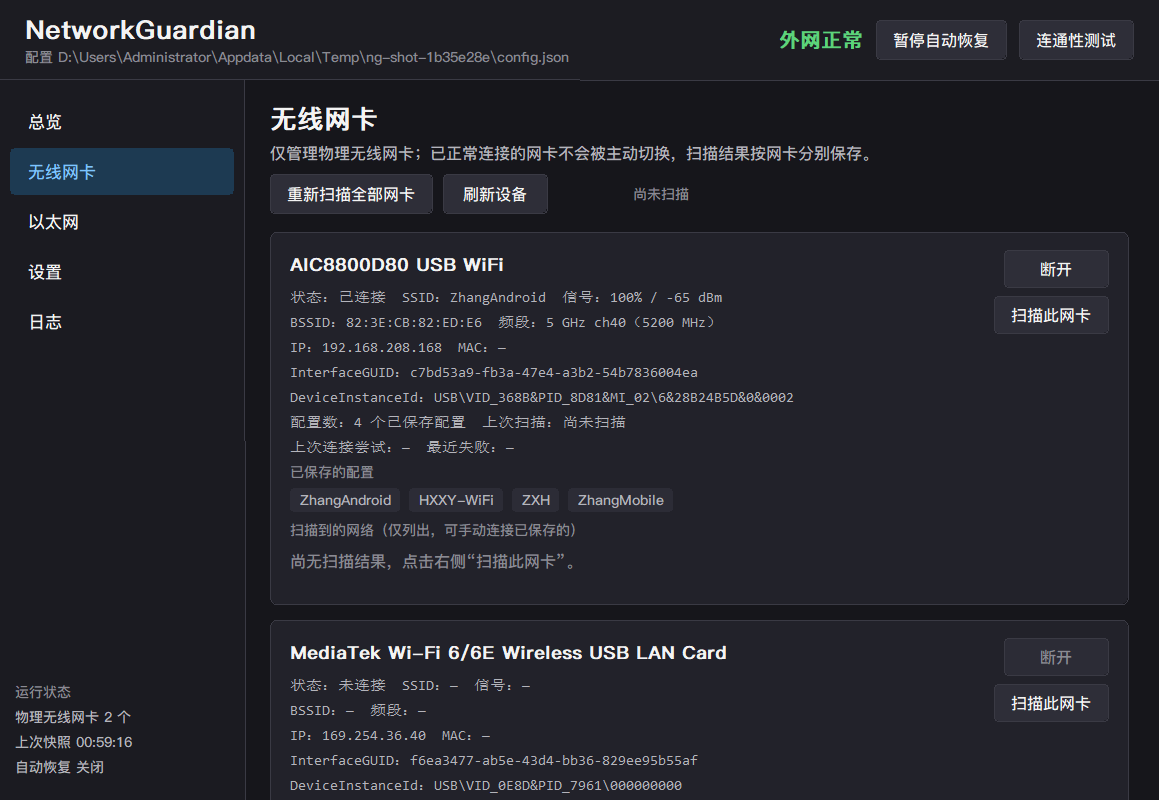
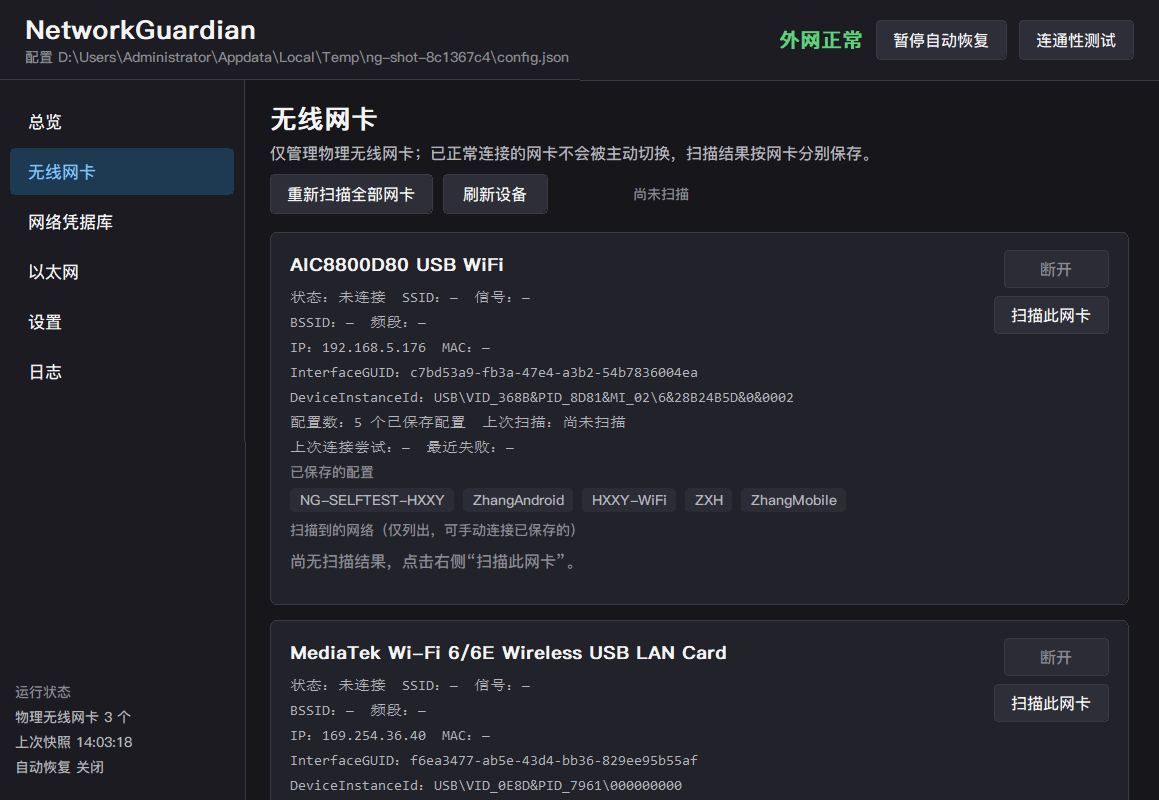
docs: document the 802.1X credential library, the watchdog and the size gate
* docs/eap-credential-library.md: the feature reference - requirement to implementation to
  evidence mapping, the credential store (DPAPI, copy semantics, what invalidates an applied
  fingerprint), the two documents Windows needs (profile XML + EAP user credentials) with the
  namespaces and element order that the shipped XSDs require, the measured accept/reject matrix
  including the reason codes (524289 credentials in a profile, 0x80420019 malformed user data,
  1206 for WPA3-Enterprise and one EAP-TLS ordering mistake), when the profile is rewritten,
  the retry/abandon flow, why the radio watchdog is its own loop, the hardware evidence, the
  size accounting and the unverified edges.
* docs/session-log-2026-09-18-8021x.md: session record - deliverables, decisions, hardware
  evidence, size table, reproduction commands, the QA-tool DPI defect.
* README.md: new sections 7.1 (self-maintained wireless network library) and 7.2 (per-adapter
  software switch and watchdog), feature rows, the credentials page, the new QA scripts, the
  updated test count (256) and size (8.24 MB / gate 8.5 MB), honest limits (WPA3-Enterprise,
  EAP-TTLS, EAP-TLS with a real client certificate, cross-machine library copies) and the
  machine-verified results.
* docs/README.md: index entries plus the refreshed verification-script table.
* docs/ui-credentials.png (new) and docs/ui-wireless.png (refreshed, now marks each enterprise
  network with 库中有账号 / 库中无账号 / 本次运行已临时放弃).

diff --git a/docs/eap-credential-library.md b/docs/eap-credential-library.md
@@ -1,0 +1,155 @@
+# 自维护无线网络库（802.1X / EAP）
+
+本文记录「程序自己维护一张无线网络账号表、并在连接企业级 Wi-Fi 时使用它」这一功能的实现依据、
+真机判定结果与已验证边界。配套代码：`src/NetworkGuardian.Core/Wlan`、`src/NetworkGuardian.Infrastructure/Configuration/WifiNetworkVault.cs`、
+`src/NetworkGuardian.Windows/Wlan/WifiProfileApplier.cs`、`src/NetworkGuardian.Portable/Ui/Pages/CredentialsPage.cs`。
+
+## 1. 需求 → 实现 → 证据
+
+| 需求 | 实现 | 证据 |
+| --- | --- | --- |
+| 支持 EAP 网络，账号密码由程序自己维护 | `WifiNetworkCredential` + `WifiNetworkVault`（`wifi-networks.json`）+ 「网络凭据库」页面 | `WifiNetworkVaultTests`（磁盘上无明文、DPAPI 往返、损坏恢复）；真机 `WifiEapConnectHardwareTests` |
+| 独立于系统的无线网络库 | 库里保存权威账号；系统侧只是「生成物」——连接前由 `WifiProfileApplier` 写入，库中没有的 SSID 绝不去猜 | `EapConnectFlowTests`（库中无账号 → 拒绝连接并说明原因）、§3 的复用/重写规则 |
+| 启用无线功能后保证所有网卡软开关打开 | 「无线电看门狗」独立循环，默认每 3 秒读全部网卡的软开关并立即打开 | 真机 `tools/qa-radio-watchdog.ps1`：2.29 s / 2.30 s，日志有看门狗行 |
+| 在已保存网络中继续连接处理 | 沿用原有的「只连接已保存配置」流程，EAP 候选在库中有账号时照常参与择优 | `CandidateSelectorTests`、`EapConnectFlowTests` |
+| 遇到 EAP 认证就用库中的信息 | 连接前按库中参数写配置 + 写 EAP 用户凭据，Windows 不再提示 | 真机写入 `success=True profileWritten=True userDataWritten=True` |
+| 失败重试 5 次 | `EapConnectRetryPolicy`，上限 `wifi.eapConnectMaxAttempts`（默认 5），按「网卡 + SSID」计数 | `EapConnectFlowTests`；真机 5 次真实失败后 `Failures=5` |
+| 5 次失败后对该网卡临时放弃（下次启动继续尝试） | 计数只在内存；达到上限后该网卡上该 SSID 不再被选中，日志与界面写明「本次运行已临时放弃」 | `EapConnectFlowTests`；库中修改该网络会立刻清零（真机 `ClearEapRetries` 返回 1） |
+
+## 2. 数据与存储
+
+`wifi-networks.json`（`%LOCALAPPDATA%\NetworkGuardian\`，可用 `NETWORKGUARDIAN_CONFIG_ROOT` 重定向）：
+原子写入 + `.bak` + 解析失败时隔离为 `.invalid.json`（与 `config.json` 同一套存储语义）。
+
+| 字段 | 含义 |
+| --- | --- |
+| `ssid` / `profileName` | 目标网络；`profileName` 留空表示用 SSID 作系统配置名（多个适配器用同一份配置是正常的） |
+| `auth` | `Wpa2Enterprise`(AES) / `WpaEnterprise`(TKIP) / `Wpa3Enterprise`（见 §3 的实测结论） |
+| `eap` | `PeapMschapv2` / `Tls` / `CustomXml` |
+| `identity` / `anonymousIdentity` / `domain` | MSCHAPv2 身份（`domain\user` 或 `user@realm`）；PEAP 外层可匿名 |
+| `passwordProtected` | DPAPI 密文（Base64）。**`password` 字段带 `[JsonIgnore]`，永不序列化** |
+| `serverNames` / `trustedRootCaThumbprints` | 服务器名校验与根证书固定（SHA-1 40 位十六进制，空格/分号都可） |
+| `certificateThumbprint` | EAP-TLS 客户端证书固定（写进 EAP 用户凭据的 `UserCert`） |
+| `profileXmlOverride` | 生成器覆盖不到的场景（EAP-TTLS、厂商方案、证书选择、MAC 随机化）原样写入 |
+| `appliedFingerprint` / `lastAppliedUtc` | 记录「这份配置是我们按当前条目写进去的」，用于判断是否需要重写 |
+
+`WifiNetworkVault` 有三条硬规则（单元测试锁定）：
+
+1. **没有保护器就拒绝保存密码**（`InvalidOperationException`），绝不明文落盘；
+2. `Entries` / `Find` 返回**副本**：界面与宿主改的都是副本，保存时按字段签名比对，才能发现「密码被改了」（早期版本返回活对象，改动在比较前就已生效，导致改密码后不重写配置——`WifiNetworkVaultTests` 专门覆盖）；
+3. 任何字段（含密码）变化都会清掉 `appliedFingerprint` → 下次连接重写配置与凭据；只有 `appliedFingerprint`/`lastAppliedUtc` 变化不清除。
+
+## 3. 生成的两份文档，以及真机接受/拒绝矩阵
+
+Windows 把 802.1X 拆成两份文档，凭据**不在**配置 XML 里：
+
+1. **连接配置**（`WlanSetProfile`，逐用户配置）：`<name>`/`<SSIDConfig>`/`<connectionType>` + MSM（`authentication`、`encryption`、`useOneX=true`）+ `<OneX><authMode>user</authMode><EAPConfig>…`；
+2. **EAP 用户凭据**（`WlanSetProfileEapXmlUserData`）：`EapHostUserCredentials` → `EapMethod`（EAP 类型 25/13）+ `Credentials` → `Eap`（`BaseEapUserPropertiesV1`，先 `<Type>`）→ 具体方法的 `EapType`（`MsChapV2UserPropertiesV1` 的 `Username`/`Password`/`LogonDomain`，或 `EapTlsUserPropertiesV1` 的 `UserCert`）。
+
+判定依据不是猜的，而是本机资源：**`C:\Windows\schemas\EAPHost\*.xsd` 与 `C:\Windows\schemas\EAPMethods\*.xsd`**，
+以及把本机已存在且能工作的企业级配置原样导出来对照（`tools/dump-wlan-profile.ps1`）。
+
+| 形态 | 结果 |
+| --- | --- |
+| PEAP + MSCHAPv2，WPA2-Enterprise（AES） | **接受**（`WlanSetProfile` + EAP 用户凭据均成功，读回 `WPA2` / EAP 类型 25） |
+| PEAP + MSCHAPv2，WPA-Enterprise（TKIP） | **接受** |
+| 隐藏网络（`nonBroadcast=true`，手动连接） | **接受** |
+| EAP-TLS（`CredentialsSource` + `ServerValidation`） | **接受**；用户凭据（`UserCert` 固定证书）**接受** |
+| 凭据写进配置 XML（`UserName`/`Password` 或 `EAPConfig` 内的用户字段） | **拒绝**：`WlanSetProfile` 原因码 524289（schema 不合法）——凭据必须走 EAP 用户数据 |
+| WPA3-Enterprise：`WPA3`/`WPA3ENT`/`WPA3ENT192` × `AES`/`GCMP256`/`GCMP`，三种网卡（AIC8800D80 / MT7961 / Intel AX201） | **全部拒绝**：原因码 1206。因此生成器**拒绝**自动生成 WPA3-Enterprise，明确要求填自定义 XML（不猜测、不静默产出无效配置） |
+| EAP 用户数据里 `<Type>` 放在 `EapMethod` 之前 / 命名空间用前缀 / `Credentials` 里的 `Eap` 不带命名空间 | **拒绝**：`EAP_E_EAPHOST_XML_MALFORMED`（0x80420019） |
+| EAP-TLS 把 `ServerValidation` 放在 `CredentialsSource` 之前 | **拒绝**：原因码 1206（XSD 要求 `CredentialsSource` 在前） |
+
+## 4. 什么时候会写系统配置
+
+`WifiProfileInspector.Evaluate` 返回四种判定：`Missing`（没有该配置）/ `NotEnterprise`（有但不是 802.1X）/
+`LibraryChanged`（`appliedFingerprint` 缺失或与当前条目生成的指纹不同）/ `UpToDate`。
+只有 `UpToDate` 才跳过写入，因此：手动改过系统配置、或换了一张网卡，都会按库中参数重写一次。
+指纹是自写的 128 位 FNV-1a（带 `ng1-` 前缀），只用于「是不是同一份文档」这一判断——不需要密码学强度。
+注意：实测把它从 `SHA256.HashData` 换过来**并没有减小体积**（前后都是 8.24 MB），保留它的理由是不给
+变更检测引入密码学依赖，而不是省体积。
+
+## 5. 连接与重试
+
+1. 决策引擎每轮拿到 `WifiEapCatalog`（库里启用的 SSID 集合）；
+2. 企业级网络若不在库中 → 不产生连接动作，日志/界面写明原因（`[802.1X]` 前缀的拒绝理由**不受** `verboseNetwork` 开关限制，因为它就是要给人看的）；若该「网卡 + SSID」已被放弃 → 同样不出现在候选里；
+3. 连接前 `EnsureLibraryProfileAsync`：查库 → 写配置 + 写凭据 → 记录 `appliedFingerprint`；
+4. `WlanConnect` 失败时按 `requiredEap` 记入 `EapConnectRetryPolicy`；达到上限（5）后标记放弃并写一条恢复动作记录（日志/界面可见）；
+5. 放弃只影响本次运行；库中修改该网络、或用户在托盘点「清除失败记录与冷却」都会清零。
+
+失败既包含「连接尝试本身失败」，也包含「配置/凭据准备失败」（此时不会真的发起连接，但同样计数，避免每轮空转重写）。
+
+## 6. 软开关看门狗
+
+- 每块网卡的软开关通过 **Windows 无线电管理器**读取与写入；`wlanapi` 的 `radio_state` 在本机三块网卡上写操作都返回 87，只能读；
+- 看门狗是**独立循环**（默认 3 秒），不依赖监测循环的巡检周期；
+- 它**不受**决策引擎的无线电动作限流（`12 次/小时`、最小间隔 `30 秒`）约束——真机验证时第 1 轮 0.26 s 由「无线电状态变化通知 + 引擎动作」完成，第 2、3 轮（限流已生效）仍能在 2.3 s 内恢复，正是看门狗的贡献；
+- 硬件开关关闭、或系统策略禁止写入时如实报告失败，不反复重试；
+- 用户「暂停自动恢复」期间看门狗不干预网卡（与其他自动动作保持一致），日志在 debug 级别说明。
+
+## 7. 真机证据
+
+环境：Windows 11 22631，三块 USB/PCIe 无线网卡；企业级网络 `HXXY-WiFi`（WPA2-Enterprise，PEAP/MSCHAPv2）。
+
+```
+# 1. 按库中参数写入配置与账号（xUnit 真机用例）
+$env:NETWORKGUARDIAN_WIFI_HARDWARE_TESTS=1
+dotnet test tests\NetworkGuardian.Tests\NetworkGuardian.Tests.csproj -c Debug `
+  --filter 'FullyQualifiedName~WifiProfileHardwareTests' --logger 'console;verbosity=detailed'
+#   → peap-mschapv2 / peap-mschapv2-wpa-tkip / peap-hidden-manual / eap-tls / eap-tls-pinned-cert
+#     全部 apply success=True，第二次 apply「无需更新」，改条目后判定为 LibraryChanged，测试配置已删除
+
+# 2. 真实 802.1X 失败计数（错误密码，连接真实 AP）
+dotnet test ... --filter 'FullyQualifiedName~WifiEapConnectHardwareTests'
+#   → apply success=True profileWritten=True userDataWritten=True
+#   → attempt 1..5 全部 success=False（每次 18 s 超时）
+#   → after 5 failures: abandoned=True
+#   → cleanup: deleteSuccess=True removed=True；user profile intact: True
+#   → 磁盘上 grep 不到密码明文
+
+# 3. 软开关看门狗
+pwsh -NoProfile -File tools\qa-radio-watchdog.ps1 -RadioIndex 2 -Rounds 3
+#   → round 1 restored after 0.26s（通知路径）
+#   → round 2 restored after 2.29s，日志：无线电看门狗：已把软件关闭的无线网卡重新打开
+#   → round 3 restored after 2.30s，同上
+```
+
+真机用例做过三件防误伤的事：生成的配置用独立名字（`NG-SELFTEST-HXXY`）且不自动连接、账号用假身份
+（`selftest@example.invalid`，不会锁真实校园账号）、结束前删除配置并断言用户自己的同名配置仍在。
+
+## 8. 体积影响（Native AOT，同一工具链实测）
+
+| 提交 | 内容 | exe |
+| --- | --- | --- |
+| `289ca18` | 本功能之前 | 7.87 MB |
+| `a8e6ce0` | 库模型 / 配置 / 配置 XML 与 EAP 用户数据生成器（未接线） | 7.98 MB |
+| `06cc66d` | Windows 写入层 + 库存储 + DPAPI（仍未接线，被裁剪） | 7.98 MB |
+| `d296834` | 接线：库装载、连接前写配置、失败计数、网络凭据库页面 | 8.24 MB |
+
+把「网络凭据库」页面从页面列表里去掉再发布，只省 0.03 MB——**增长来自功能代码本身，不是界面**。
+因此 `tools/build-portable.ps1` 的体积门限由 8 MB 调整为 **8.5 MB**（理由与逐步实测写在脚本头部）。
+`OptimizationPreference=Size`、`StripSymbols`、`UseSystemResourceKeys`、`InvariantGlobalization` 早已开启。
+
+## 9. 开发中暴露的问题与根因
+
+1. **密码不能写在配置 XML 里**：凭据放 `EAPConfig` 会被 `WlanSetProfile` 以原因码 524289 拒绝；必须用
+   `WlanSetProfileEapXmlUserData` 单独写。
+2. **EAP 用户数据 XML 无文档可循**：6 种手写形态全被 `0x80420019` 拒。正解是系统自带的 XSD
+   （`C:\Windows\schemas\…`）：`EapMethod` 的类型元素在 `EapCommon` 命名空间、`Credentials` 里的 `Eap`
+   在 `BaseEapUserPropertiesV1` 命名空间且**先 `<Type>` 再具体方法元素**、`Username` 大小写敏感。
+3. **EAP-TLS 元素顺序**：`CredentialsSource` 必须在 `ServerValidation` 之前，否则原因码 1206。
+4. **WPA3-Enterprise 在本机不可用**：三种取值 × 三种网卡全部 1206；不猜、不硬编码，改为要求自定义 XML。
+5. **`WlanSetInterface(radio_state)` 写不了**：三块网卡都返回 87，写入只能走无线电管理器（前一轮已验证）。
+6. **库返回活对象导致「改密码不重写」**：`SaveAsync` 比较签名时改动已生效；改为返回副本。
+7. **引擎的无线电限流让「通知路径」不可靠**：`12 次/小时` + `30 秒`最小间隔，短时间内第二次关掉软开关时
+   引擎不会再动手——这正是需要独立看门狗循环的原因（真机第 2/3 轮验证）。
+8. **占位性假设被证伪**：早期版本假设能用 `WlanGetProfileEapUserDataInfo` + `WLAN_PROFILE_USER`
+   读回已存凭据大小，对照 `wlanapi.h` 后确认假设错误，相关代码已删除（不保留「看起来能工作」的死代码）。
+
+## 10. 未验证边界
+
+- WPA3-Enterprise（本机 WLAN 服务拒绝；需支持该模式的网卡/驱动）；
+- EAP-TTLS、PEAP-TLS 等第三方 EAP 方法（需系统安装对应 EAP 方法，只能填自定义 XML）；
+- EAP-TLS 携带**真实客户端证书**完成认证（本机无可用证书，只验证了配置与凭据被接受）；
+- `wifi-networks.json` 跨用户/跨机器复制（DPAPI 作用域所限，程序会提示重新填写，不静默失败）；
+- 多张网卡同时连同一个企业级 SSID（`wifi.allowSameSsidOnMultipleAdapters=false` 的默认行为沿用原逻辑）。

diff --git a/docs/session-log-2026-09-18-8021x.md b/docs/session-log-2026-09-18-8021x.md
@@ -1,0 +1,104 @@
+# 会话记录：自维护无线网络库（802.1X / EAP）+ 软开关看门狗
+
+日期：2026-09-18　仓库：`D:\Files\Develop\Windows\NetworkGuardian`（提交 `a8e6ce0` → `d296834` 及后续文档提交）
+
+需求原文要点：
+
+1. 对 EAP 网络支持自己维护账号密码，建立一个**软件自维护、独立于系统**的无线网络库；
+2. 启用无线功能后，保证**所有无线网卡的软开关被打开，间隔 3 秒检查一次并立即打开**；
+3. 然后在已保存网络中继续连接处理，遇到 EAP 认证就用自维护库里的信息；失败**重试 5 次**，
+   5 次失败后对该网卡**临时放弃**该网络（下次启动依旧继续尝试）。
+
+## 1. 交付物
+
+| 类别 | 文件 |
+| --- | --- |
+| Core（纯逻辑） | `Models/WifiCredentialModels.cs`、`Models/WifiEapCatalog.cs`、`Wlan/EnterpriseProfileBuilder.cs`（配置 XML + EAP 用户凭据）、`Wlan/WifiProfileInspector.cs`（是否需重写）、`Policies/EapConnectRetryPolicy.cs`、`Abstractions/SecretProtectionContracts.cs` |
+| Infrastructure | `Configuration/WifiNetworkVault.cs`（库文件：DPAPI、原子写、副本语义） |
+| Windows | `Security/DpapiSecretProtector.cs`、`Wlan/WifiProfileApplier.cs`、`Wlan/NativeWifiManager.cs`（`WlanSetProfile` / `WlanDeleteProfile` / `WlanSetProfileEapXmlUserData` / `WlanReasonCodeToString`）、`Native/WlanApiNative.cs` |
+| Portable | `Services/GuardianHostService.cs`（库装载、连接前写入、失败计数、无线电看门狗、UI 接口）、`Ui/Pages/CredentialsPage.cs`、`Ui/Pages/WirelessPage.cs`、`Ui/Pages/SettingsPage.cs` |
+| 测试 | `EapCredentialLibraryTests`、`WifiNetworkVaultTests`、`EapConnectFlowTests`、`WifiProfileHardwareTests`（真机）、`WifiEapConnectHardwareTests`（真机）——共 256 个用例 |
+| 工具 | `tools/qa-radio-watchdog.ps1`、`tools/qa-wifi-radio-winrt.ps1`、`tools/dump-wlan-profile.ps1`、`tools/sample-wifi-networks.json` |
+| 文档 | `docs/eap-credential-library.md`（设计与证据）、本文、`README.md` §7.1/§7.2/§13/§17/§18/§19 |
+
+## 2. 关键决策
+
+| 决策 | 理由 |
+| --- | --- |
+| 账号密码存**库文件**，不进 `config.json` | 配置是「可分享、可复制」的文本；库文件单独一份、密码以 DPAPI 密文保存，语义清楚 |
+| 密码字段 `[JsonIgnore]`，落盘只有 `passwordProtected` | 「明文永不落盘」可以被测试断言（`WifiNetworkVaultTests`） |
+| 凭据走 `WlanSetProfileEapXmlUserData`，配置 XML 里不放账号 | 真机实测：放进去会被 `WlanSetProfile` 以原因码 524289 拒绝 |
+| 配置按「指纹 + 应用时间」判断是否重写 | 既能在库改动后重写，也不会每轮重复写系统配置 |
+| 失败计数只放内存 | 需求明确「下次启动依旧继续尝试」，持久化黑名单会违背它；短期频繁失败另由既有 `ConnectFailureBlacklist` 处理 |
+| 看门狗是独立循环而非复用监测循环 | 监测循环的心跳是低频巡检，且引擎的无线电动作有限流（12 次/小时、最小间隔 30 秒），都不适合「3 秒内必须打开」 |
+| WPA3-Enterprise 拒绝生成 | 三种取值 × 三块网卡全部被 WLAN 服务以 1206 拒绝；宁可明确要求自定义 XML，也不产出无效配置 |
+| 指纹用自写 FNV-1a 而非 SHA256 | 只用于「是不是同一份文档」，不需要密码学强度（实测换过来体积无变化，8.24 MB 前后一致，理由是不引入密码学依赖） |
+
+## 3. 真机验证（证据摘要）
+
+| 项目 | 结果 |
+| --- | --- |
+| 企业级配置写入/读取/删除 | 5 种形态（PEAP/MSCHAPv2、WPA-TKIP、隐藏网络手动、EAP-TLS、EAP-TLS 固定证书）：`apply success=True`，二次 apply 判定「无需更新」，改条目后 `LibraryChanged`，测试配置全部删除 |
+| 真实 802.1X 失败计数 | 用假身份连真实 AP：5 次失败（每次 18 s 超时）→ `Failures=5`、`abandoned=True`；`ClearEapRetries` 后立即可再试 |
+| 密码保护 | 库文件里 grep 不到明文；重新加载能解出密码；DPAPI 密文换密钥后解不出并给出提示 |
+| 软开关看门狗 | 程序运行中关掉一块网卡软开关：第 1 轮 0.26 s（通知路径）、第 2 轮 2.29 s、第 3 轮 2.30 s（看门狗行），全部恢复为 `Software On` |
+| 发布包 | 8.24 MB 单文件；`tools/verify-portable.ps1` 33 项全通过（含干净环境启动、助手真实执行、关闭链路、无残留） |
+| 凭据库页面交互 | `tools/qa-ui-click.ps1 -Page credentials`：命中区域与绘制位置一致——`y=240` 一行上 x=280/340 命中 8（保存并应用）、400/460 命中 9（新增网络）、520/580 命中 10（重新加载）；点「新增网络」后命中目标数 **11 → 32 → 53**（每张完整条目卡片新增 21 个命中区域），点「重新加载」回到 11，说明自绘控件的命中链（按下/抬起 + 命中索引 + 回调）在新页面上成立 |
+
+防御性设计（避免验证过程误伤用户环境）：真机用例使用独立配置名 `NG-SELFTEST-HXXY`、假身份
+`selftest@example.invalid`、`connectAutomatically=false`，并在 `finally` 中删除配置且断言用户自己的同名配置仍存在；
+看门狗验证脚本使用临时配置根并把掉线宽限调到 900 秒，保证验证期间不会触发连接动作。
+
+## 4. 体积账（每步实测）
+
+| 提交 | 变化 | exe |
+| --- | --- | --- |
+| `289ca18` | 本功能之前 | 7.87 MB |
+| `a8e6ce0` | 库模型/配置/生成器（未接线） | 7.98 MB |
+| `06cc66d` | Windows 写入层 + 库存储 + DPAPI（未接线，被裁剪） | 7.98 MB |
+| `d296834` | 接线到宿主 + 网络凭据库页面 | 8.24 MB |
+
+「去掉新页面」实验只省 0.03 MB → 增长来自功能代码本身。门限由 8 MB 调整为 8.5 MB，
+理由与实测数字写在 `tools/build-portable.ps1` 头部；`tools/verify-portable.ps1` 改为**从构建脚本读取门限**，
+避免两处门限漂移（这次就是被它抓到的一个真实漂移）。
+
+## 5. 复现命令
+
+```powershell
+# 全量构建 + 单元测试（256）
+dotnet build NetworkGuardian.sln -c Release
+dotnet test  tests\NetworkGuardian.Tests\NetworkGuardian.Tests.csproj -c Release
+
+# 真机用例（会写/删临时配置，不改用户配置；需要企业级网络在范围内）
+$env:NETWORKGUARDIAN_WIFI_HARDWARE_TESTS=1
+dotnet test tests\NetworkGuardian.Tests\NetworkGuardian.Tests.csproj -c Debug --filter 'FullyQualifiedName~WifiProfileHardwareTests'
+dotnet test tests\NetworkGuardian.Tests\NetworkGuardian.Tests.csproj -c Debug --filter 'FullyQualifiedName~WifiEapConnectHardwareTests'
+
+# 软开关看门狗（真机）
+pwsh -NoProfile -File tools\qa-radio-watchdog.ps1 -RadioIndex 2 -Rounds 3
+
+# 发布 + 验证
+pwsh -NoProfile -File tools\build-portable.ps1 -Zip
+pwsh -NoProfile -File tools\verify-portable.ps1
+
+# 界面截图（凭据库页带两条示例条目）
+pwsh -NoProfile -File tools\ui-screenshot.ps1 -Page credentials -SeedLibrary tools\sample-wifi-networks.json -Out docs\ui-credentials.png
+```
+
+## 6. 过程中的 8 个缺陷 / 根因
+
+见 `docs/eap-credential-library.md` 第 9 节（凭据不能进配置 XML、EAP 用户数据 XML 命名空间与顺序、
+EAP-TLS 元素顺序、WPA3 不可用、`radio_state` 写不了、库返回活对象、引擎限流、`WLAN_PROFILE_USER` 假设错误）。
+
+另外修掉一个**验证工具自身**的问题：`tools/qa-ui-click.ps1` 靠「先点 (4,4) 量一次坐标缩放」来补偿 DPI，
+而实测同一台机器上这个系数会在 1.25 与 1.5 之间变化（取决于启动该脚本的进程的 DPI 感知上下文），
+导致同一组坐标两次运行点到不同位置。现在脚本先调用
+`SetThreadDpiAwarenessContext(DPI_AWARENESS_CONTEXT_PER_MONITOR_AWARE_V2)`，系数稳定为 1.0，
+坐标即为真实客户区坐标（校准仍保留，作为「系数是否为 1」的断言）。
+
+## 7. 未验证 / 待办
+
+- WPA3-Enterprise 与第三方 EAP 方法（EAP-TTLS 等）需真实环境，当前只能填自定义 XML；
+- EAP-TLS 带真实客户端证书的完整认证流程；
+- 多网卡同时连接同一个企业级 SSID 的取舍（沿用既有规则，未针对 EAP 重新验证）；
+- 库文件跨用户/跨机器复制的引导（当前只在日志/界面提示「密码无法解密，请重新填写」）。

diff --git a/docs/README.md b/docs/README.md
@@ -1,16 +1,19 @@
 # NetworkGuardian 文档索引
 
-当前交付形态是 **Native AOT 单文件便携版**（`release\NetworkGuardian.exe`，7.82 MB，自绘 Win32 UI，提权助手已内置；`release\` 为发布目录，已在 `.gitignore` 内）。
+当前交付形态是 **Native AOT 单文件便携版**（`release\NetworkGuardian.exe`，8.24 MB，自绘 Win32 UI，提权助手已内置；`release\` 为发布目录，已在 `.gitignore` 内）。
 `docs\session-log-2026-09-17.md` 与其中的界面截图描述的是已被取代的 WinUI 3 版本，仅作历史参考。
 
 | 文件 | 内容 | 适用场景 |
 | --- | --- | --- |
 | [`../README.md`](../README.md) | 项目主文档：交付形态与体积、功能、系统要求、编译/测试/打包、运行与 QA 开关、粘性规则与恢复顺序、校园网认证、物理/虚拟网卡判定、原生 API 清单、UI 与托盘、管理员权限、位置权限、配置与日志路径、Native AOT 约束、已知限制、安全边界、本机实测 | 首次了解项目 / 部署使用 / 改动前必读约束 |
 | [`session-log-2026-09-18.md`](session-log-2026-09-18.md) | 小体积改造的完整记录：体积账（每步实测）、真机验证证据、**改造中暴露的 8 个缺陷与根因**、关键设计决策、提交历史、复现命令、未验证项 | 交接、回溯「为什么自绘 UI 这么写」、复现验证 |
+| [`eap-credential-library.md`](eap-credential-library.md) | 自维护无线网络库（802.1X/EAP）：需求映射、数据与存储、生成的两份文档、**真机接受/拒绝矩阵（含 WLAN 原因码）**、看门狗设计理由、真机证据、体积账、8 个缺陷根因、未验证边界 | 理解或改 802.1X 相关代码前必读 |
+| [`session-log-2026-09-18-8021x.md`](session-log-2026-09-18-8021x.md) | 802.1X 库 + 软开关看门狗的会话记录：交付物、关键决策、真机证据、体积账、复现命令、未验证项 | 交接与复现该功能 |
 | [`portable-small-build-plan.md`](portable-small-build-plan.md) | 改造前的体积矩阵（WinUI 248.8 MB / WinForms 68 MB / 裁剪自包含 ~10 MB / Native AOT 2.1–4.7 MB）、体积构成分析、可行性与阶段计划（顶部已标明实施结果） | 评估「为什么必须换 UI 框架」、看历史决策依据 |
 | [`session-log-2026-09-17.md`](session-log-2026-09-17.md) | WinUI 3 版本的会话记录：真机验证证据、7 个真机缺陷与修复、设计决策 | 历史参考（当前代码已不含 WinUI） |
 | `ui-dashboard.png` | 便携版总览页实际截图 | 界面现状 |
 | `ui-wireless.png` | 便携版无线网卡页（按网卡扫描、已保存配置、设备列表） | 界面现状 |
+| `ui-credentials.png` | 便携版网络凭据库页（802.1X 账号条目、密码遮罩、写入到所有网卡） | 界面现状 |
 | `ui-ethernet.png` | 便携版以太网页（物理接口、全部接口明细、DNS/MAC、PnP 设备） | 界面现状 |
 | `ui-settings.png` | 便携版设置页（分组卡片、开关、步进、文本字段） | 界面现状 |
 | `ui-logs.png` | 便携版日志页（级别/分类/搜索筛选、实时缓冲） | 界面现状 |
@@ -24,14 +27,20 @@
 - 想看「点击为什么无效、助手怎么并进主程序」 → `session-log-2026-09-18.md` 第 10 节（点击命中链修复 + 真·单文件）
 - 想看「被禁用的网卡为什么没自动打开、重复 SSID 怎么处理」 → `session-log-2026-09-18.md` 第 11 节
 - 想看「设置里每块网卡的 Wi-Fi 分开关（radio_state）怎么被自动打开」 → `session-log-2026-09-18.md` 第 12 节
+- 想看「企业级 Wi-Fi（802.1X/EAP）的账号怎么维护、配置怎么生成」 → `eap-credential-library.md` 第 2、3 节
+- 想看「哪些 802.1X 配置被 WLAN 服务接受、哪些被拒（原因码）」 → `eap-credential-library.md` 第 3 节
+- 想看「软开关看门狗为什么是独立循环、怎么验证」 → `eap-credential-library.md` 第 6、7 节
 - 想看「体积里都是什么、为什么 WinUI 不可能变轻」 → `portable-small-build-plan.md` 第 1、2、3 节
 
 ## 验证脚本速查
 
 | 命令 | 断言 |
 | --- | --- |
-| `tools\build-portable.ps1` | 构建 0 警告 + 196 测试通过 + 单文件 ≤ 8 MB（包内只允许一个 exe）+ 无 PDB |
-| `tools\verify-portable.ps1` | 中性目录 + 干净环境启动、窗口类存在、**窗口线程应答消息**、日志/配置副作用、**GUI 实例运行时 `--helper` 仍应答并真实执行**、关闭链路、无残留（35 项） |
+| `tools\build-portable.ps1` | 构建 0 警告 + 256 测试通过 + 单文件 ≤ 8.5 MB（包内只允许一个 exe）+ 无 PDB（门限理由与逐步实测见脚本头部） |
+| `tools\verify-portable.ps1` | 中性目录 + 干净环境启动、窗口类存在、**窗口线程应答消息**、日志/配置副作用、**GUI 实例运行时 `--helper` 仍应答并真实执行**、关闭链路、无残留（33 项；体积门限从构建脚本读取） |
+| `tools\qa-radio-watchdog.ps1` | 真机软开关看门狗：关掉一块网卡的软开关，要求 3 秒内被重新打开，并断言日志出现看门狗行 |
+| `tools\qa-wifi-radio-winrt.ps1` | 读取/翻转单块网卡的软开关（无线电管理器路径，Windows PowerShell 5.1） |
+| `tools\dump-wlan-profile.ps1` | 导出网卡上已保存的配置 XML（对照 802.1X 结构用） |
 | `tools\qa-ui-click.ps1` | 自绘 UI 交互回归：`PrintWindow` 抓图 + 标定后模拟点击（客户端坐标），读 debug 命中日志 |
 | `tools\smoke-run.ps1` | 隔离配置根下的真机冒烟（枚举/探测/日志） |
 | `tools\shutdown-test.ps1` | `WM_CLOSE` 后关闭序列完整且进程自退 |
